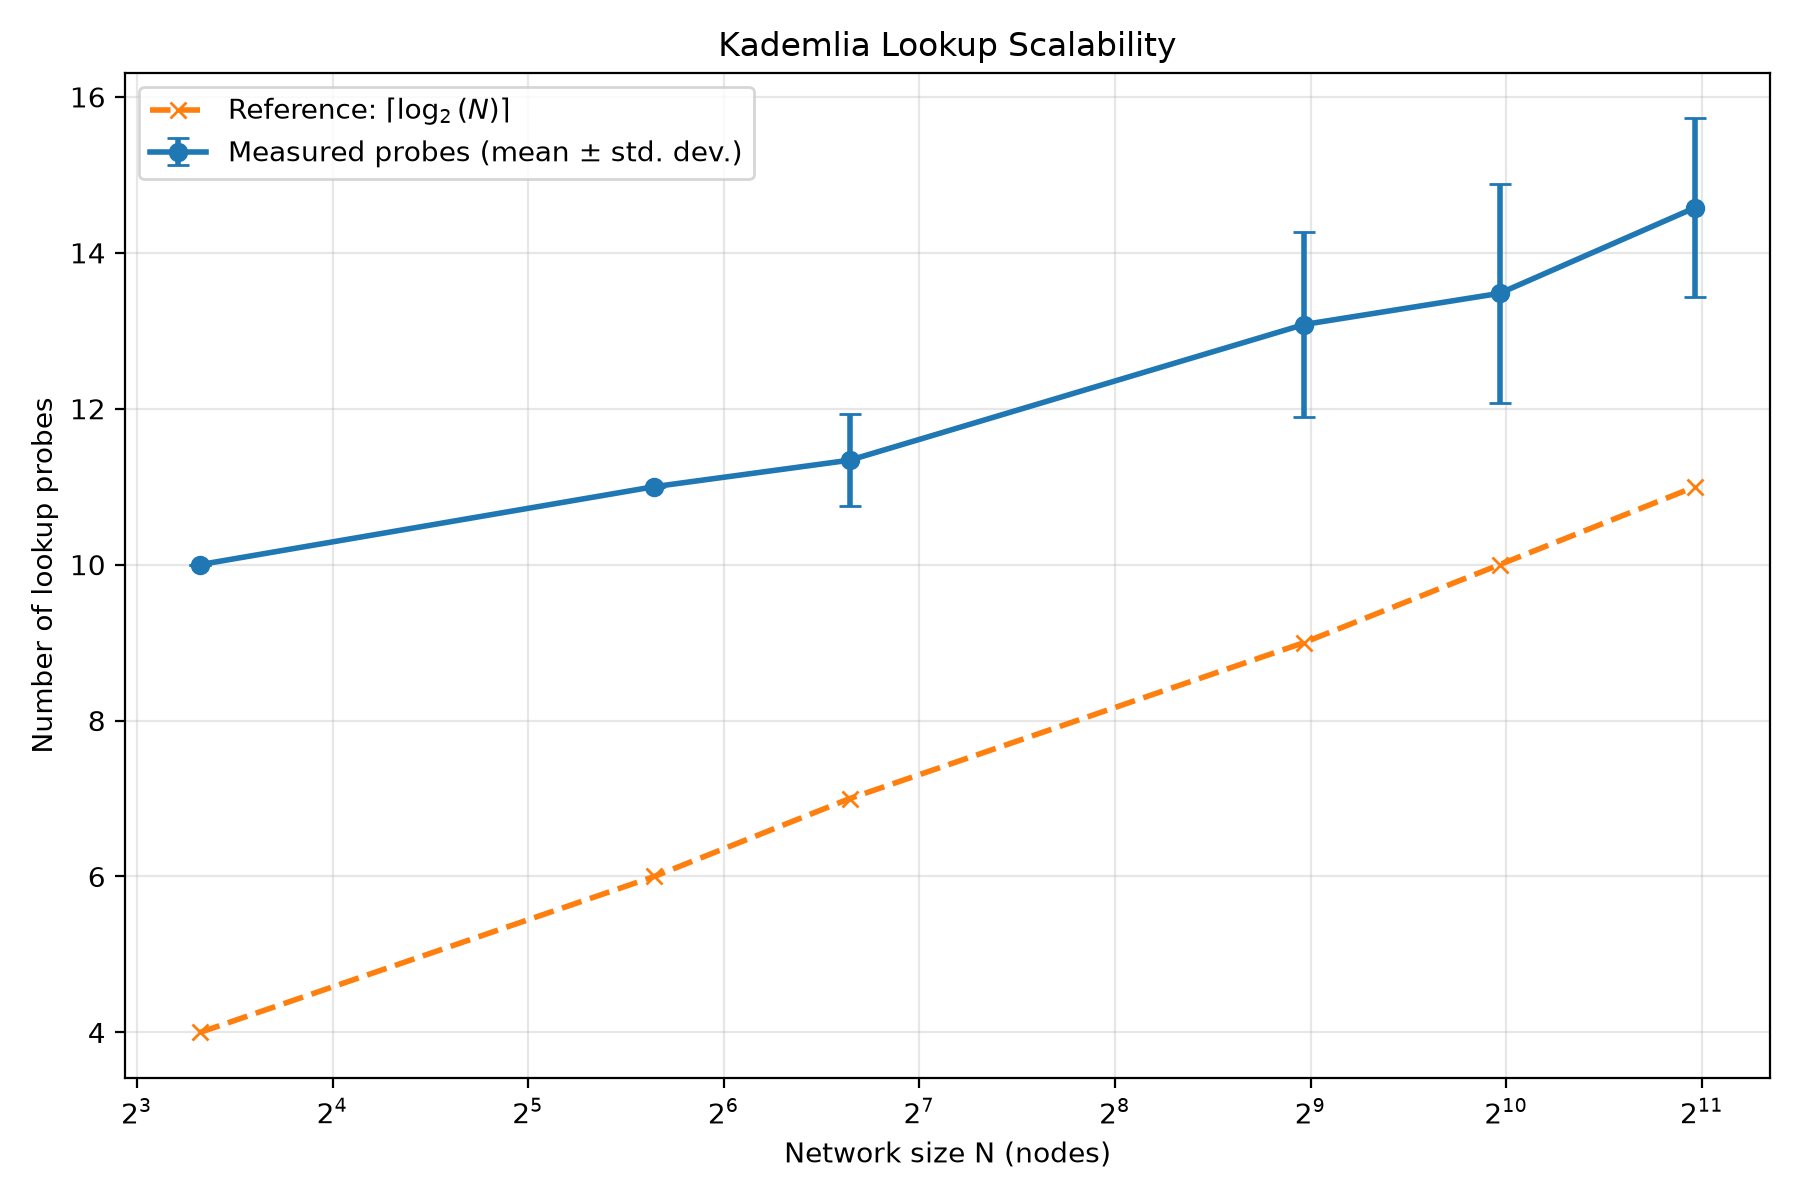
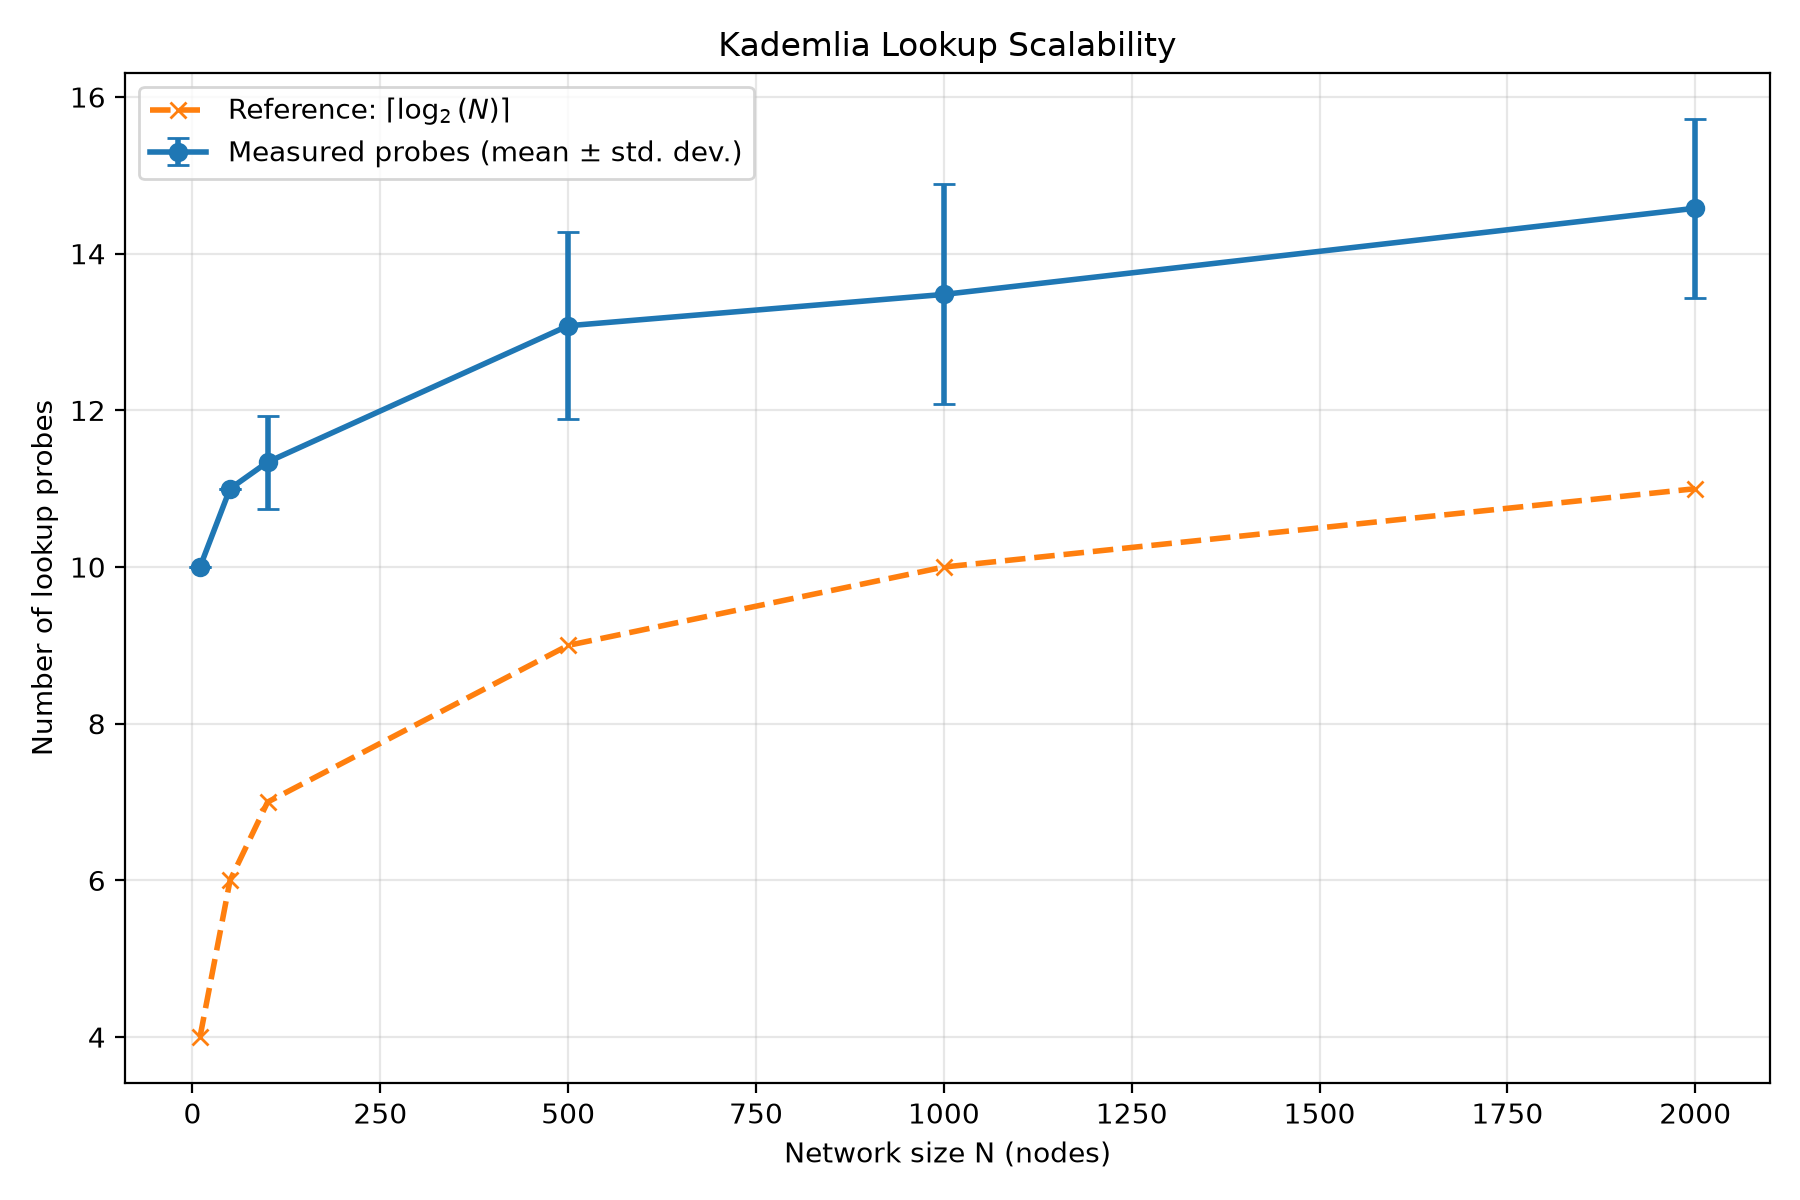
better graph

diff --git a/labs/data/analyze_scalability.py b/labs/data/analyze_scalability.py
@@ -449,7 +449,7 @@ def plot_probes_vs_nodes(summary, output_file):
         label=r"Reference: $\lceil\log_2(N)\rceil$",
     )
 
-    plt.xscale("log", base=2)
+    # plt.xscale("log", base=2)
 
     plt.xlabel("Network size N (nodes)")
     plt.ylabel("Number of lookup probes")
